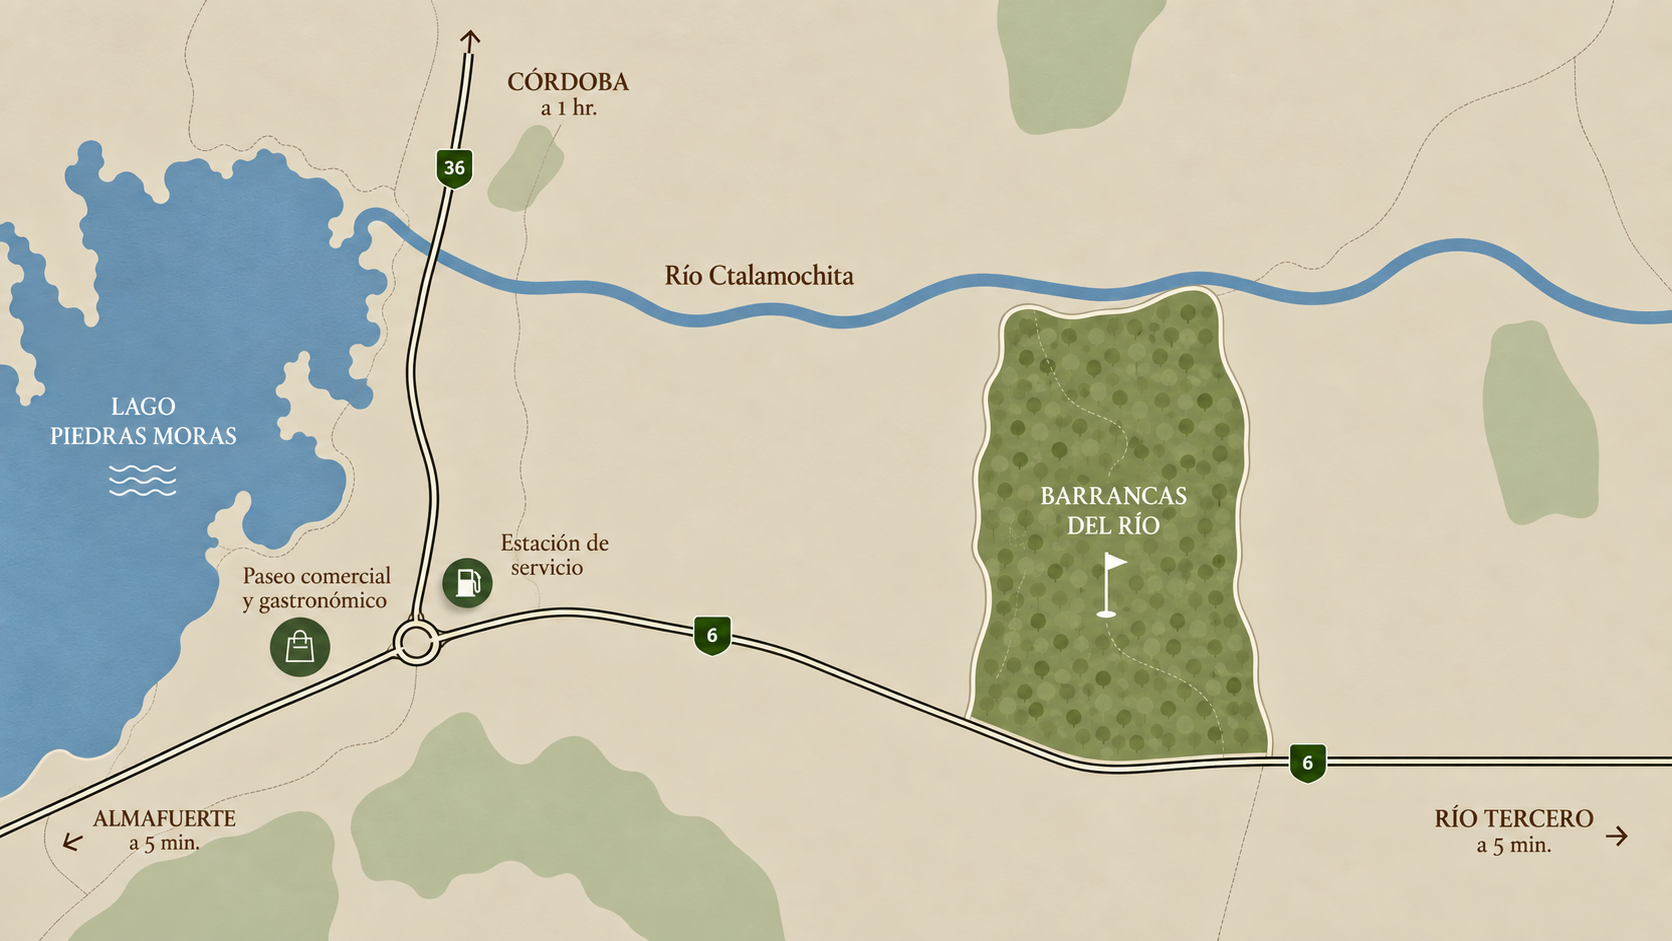
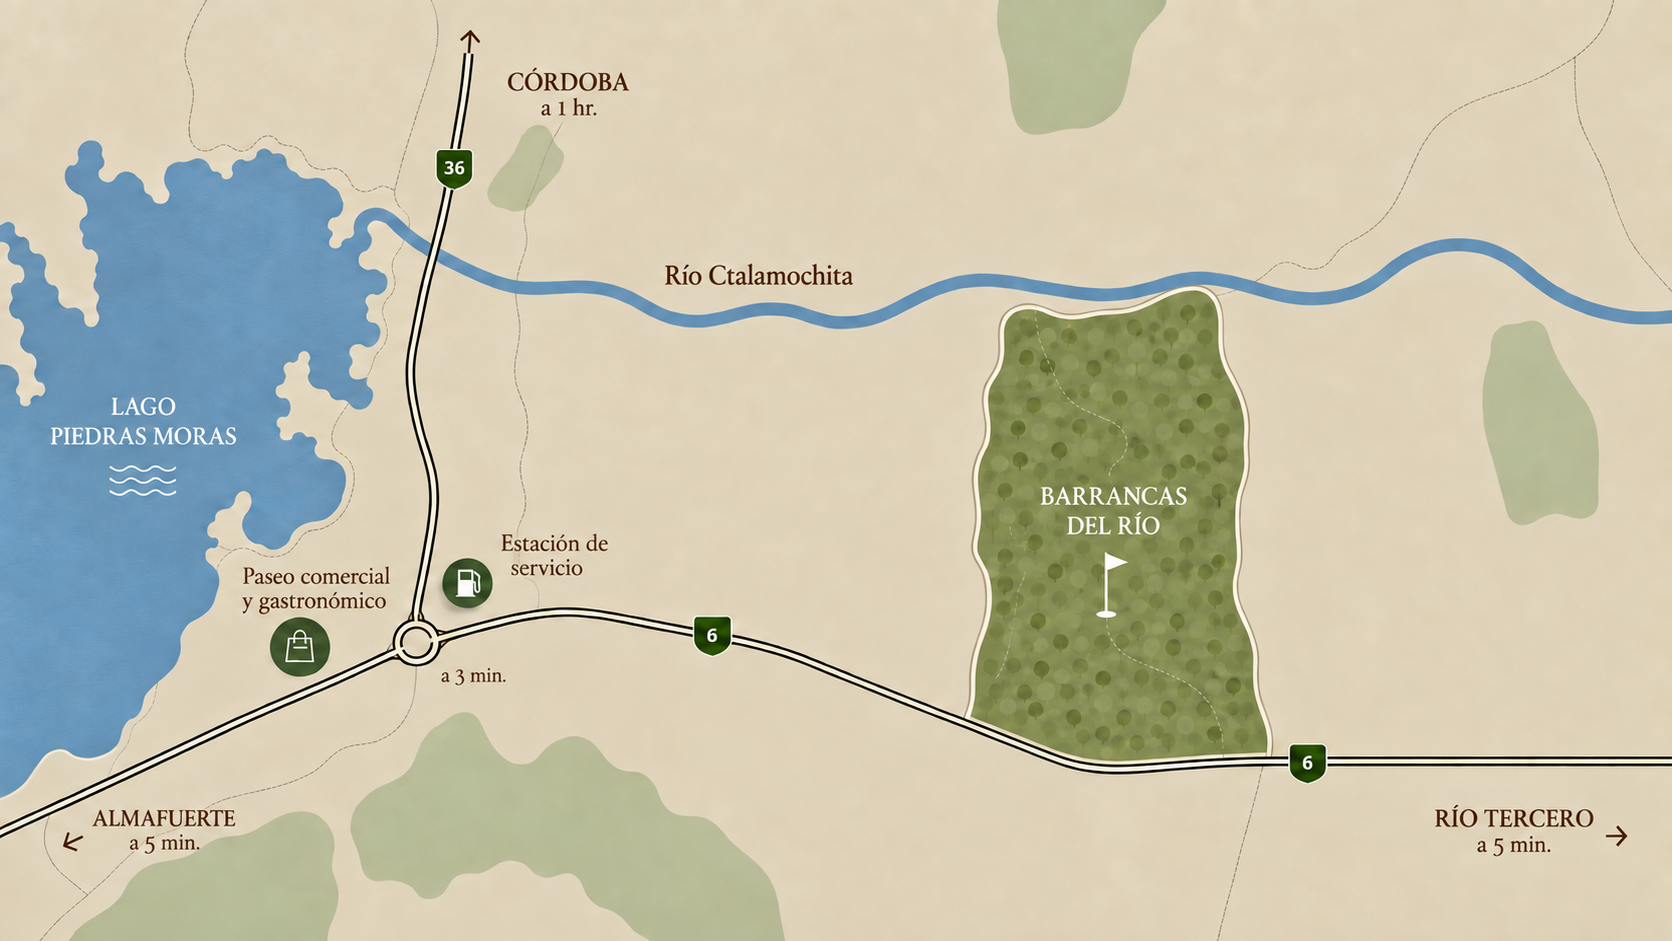
cambios finales

diff --git a/src/components/Hero.jsx b/src/components/Hero.jsx
@@ -3,7 +3,7 @@ import heroVideo from '../assets/images/hero-video.mp4';
 const STATS = [
   { value: '1000 m²', label: 'Lotes desde' },
   { value: 'Listo', label: 'para construir' },
-  { value: 'Golf 18h', label: 'campo integrado' },
+  { value: 'Golf 9h', label: 'campo integrado' },
   { value: 'Financiación', label: 'Propia' },
 ];
 
